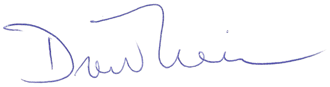
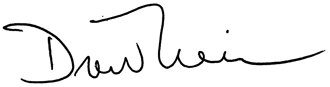
Added Drew's Sig
see title

Changed region(s): [[0.0, 0.023, 1.0, 0.9655], [0.6667, 0.3448, 0.697, 0.3908]]

diff --git a/index.html b/index.html
@@ -402,7 +402,7 @@
       <!--   <hr> -->
         <p>Founder and CEO of Renegade, Drew a recognized authority on cutting-edge marketing techniques having won virtually every award imaginable for creativity and campaign effectiveness.   Ranked among Brand Quarterly’s “50 Marketing Thought Leaders Over 50,” he is an “expert blogger” for Forbes, FastCompany, CMO.com, TheCMOclub and pens the highly praised CMO of the Week column for Social Media Today. </p>
         <p>Through a long-time partnership with The CMO Club, Drew has met and interviewed well over 100 CMOs in the last five years. Drew is a trusted advisor to many of these CMOs and authors and TheCut, his coveted monthly newsletter.  He regularly consults on digital and social media trends via the GLG network and currently sits on the boards of the Urban Green Council and Duke NY. </p>
-        <img src="img/signature.png" data-at2x="img/signature@2x.png" alt="signature" class="signature"> 
+        <img src="img/drewsig.png" data-at2x="img/drewsig@2x.png" alt="signature" class="signature"> 
         
         <!--social-->
         <div class="social">
